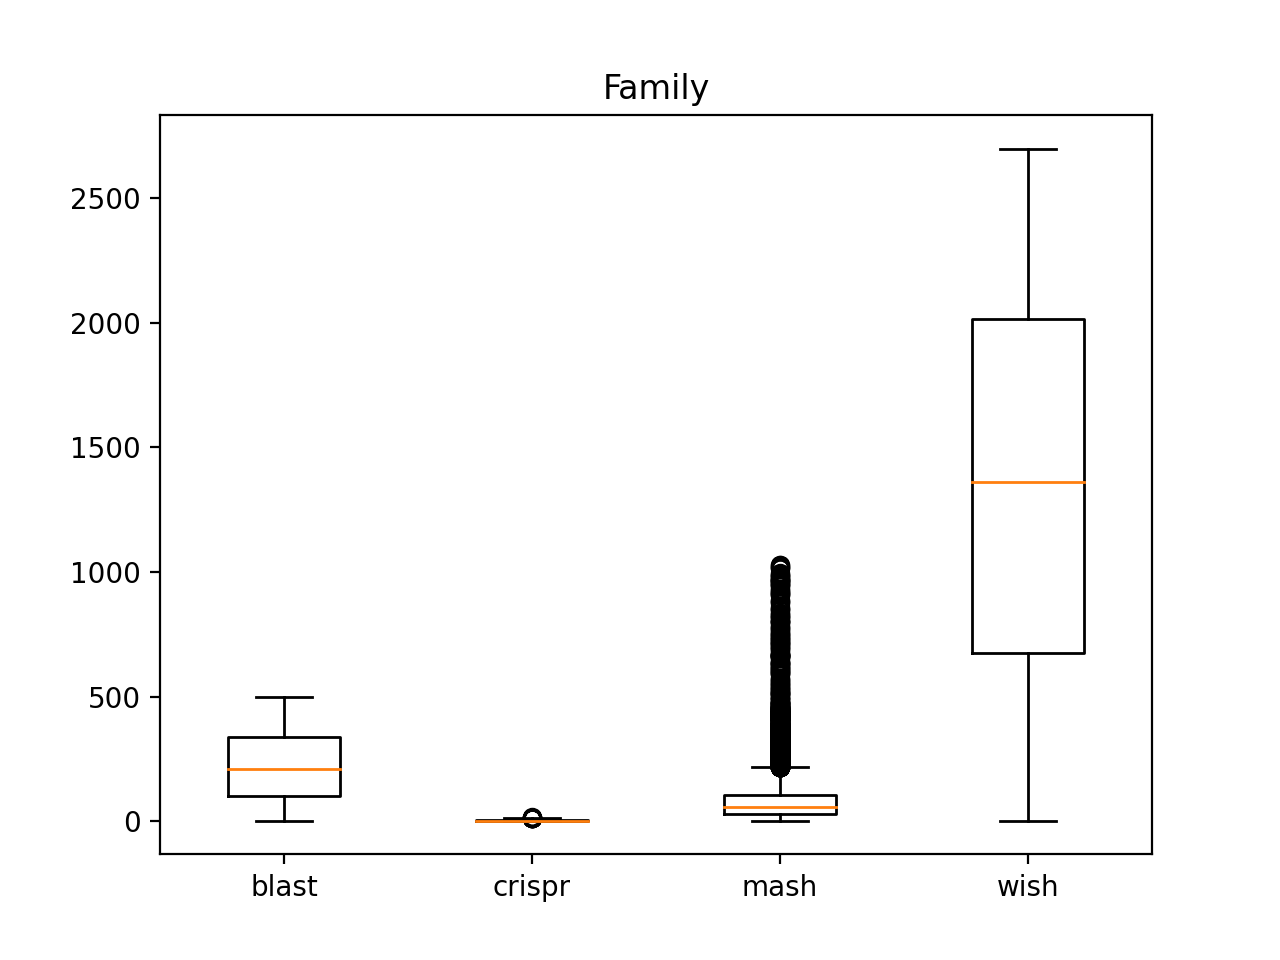
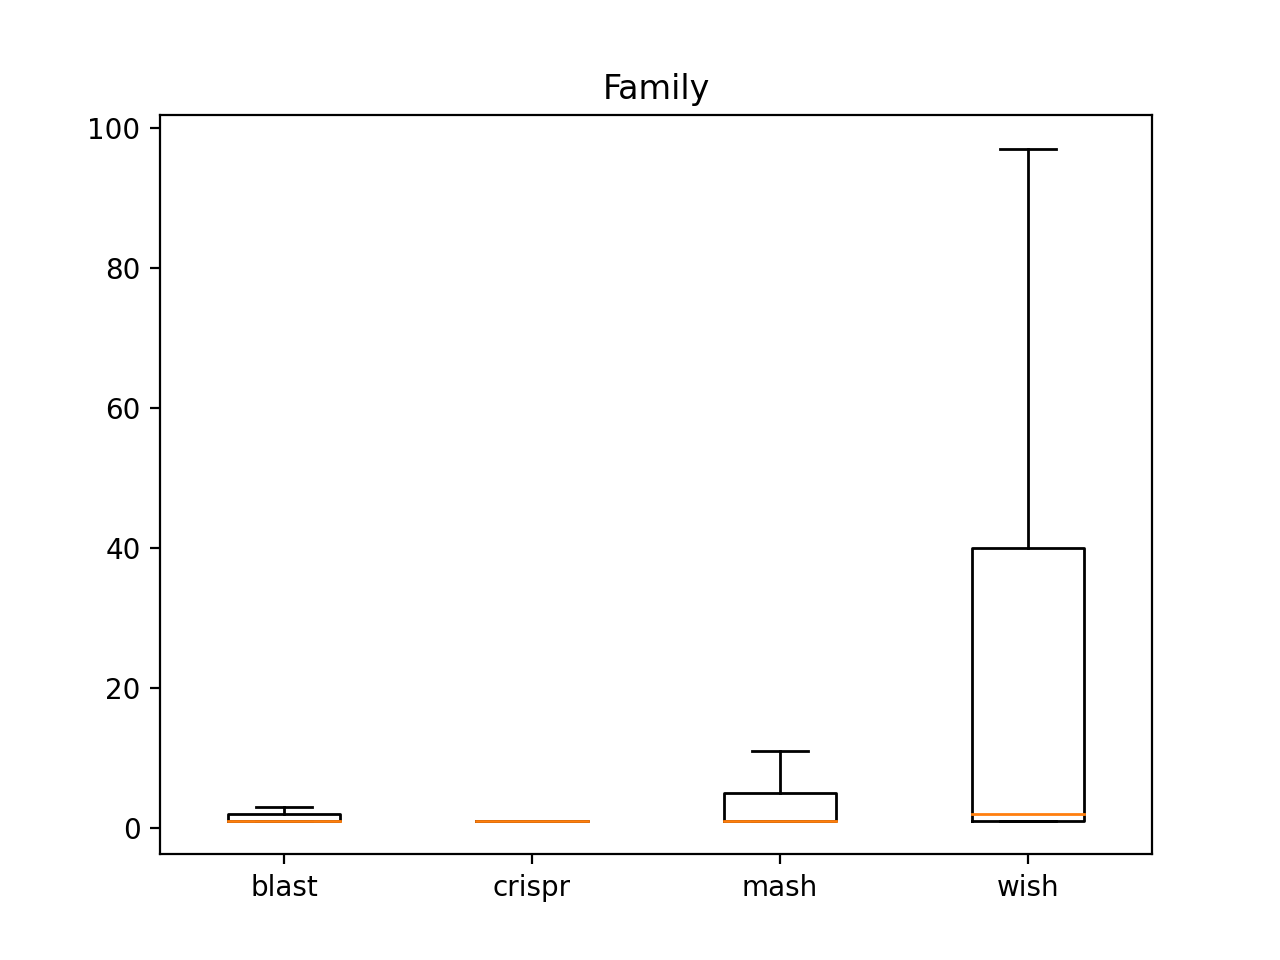
roc

diff --git a/predictions/stats_roc.py b/predictions/stats_roc.py
@@ -1,0 +1,145 @@
+import numpy as np
+import json
+from functools import reduce
+from pathlib import Path
+import pandas as pd
+#import seaborn as sns
+import matplotlib.pyplot as plt
+import itertools
+from collections import defaultdict
+from sklearn import metrics
+import matplotlib.gridspec as gridspec
+
+# def name_frames(frames):
+#     for i, _ in enumerate(frames):
+#         col_name = frames[i].name + "Score"
+#         frames[i].rename(columns={"Score": col_name}, inplace=True)
+#     return frames
+
+def get_all_max(sdf):
+    sdf_max = sdf.max().to_frame().T
+    sdf_max.dropna(axis=1, how='all', inplace=True)
+    result = pd.concat([pd.merge(sdf, sdf_max[[c]], how='inner') for c in sdf_max.columns.to_list()[2:]])
+    result.loc["#"] = ["# Std", ""] + list(result[result.columns.to_list()[2:]].std(ddof=0).round(3))
+    return result
+
+
+def main():
+    frames = []
+    # ['blast.csv', 'crispr.csv', 'mash.csv', 'wish.csv']
+    for fl in ['blast.csv', 'crispr.csv', 'mash.csv', 'wish.csv']:
+        frame = pd.read_csv(fl)
+        frame.name = Path(fl).stem
+        frames.append(frame)
+
+
+    filtered = []
+    for frame in frames:
+        df = frame.groupby('Virus', as_index=False).apply(get_all_max).reset_index(drop=True)
+        df.name = frame.name
+        filtered.append(df)
+
+    with open('true_positives.json') as fh:
+        d = json.load(fh)
+
+    with open('edwards2016/virus/virus.json') as fh:
+        d_vir = json.load(fh)
+
+    with open('edwards2016/host/host.json') as fh:
+        d_host = json.load(fh)
+
+    positives = {(v, h) for v in d.keys() for h in d[v]}
+    all_relations = {(v, h) for v in d_vir.keys() for h in d_host.keys()}
+
+    gs = gridspec.GridSpec(2, 2)
+    fig = plt.figure(figsize=(12, 18))
+
+    for i, frame in enumerate(frames):
+        decisions = []
+        values = []
+        
+        records = {(x[0], x[1]): x[2] for x in list(frame.sort_values(["Score"], ascending=False).to_records(index=False))}
+
+        for j, rel in enumerate(all_relations, 1):
+            value = records.get(rel, 0)
+            decision = 1 if rel in positives else 0
+
+            decisions.append(decision)
+            values.append(value)
+            # print(frame.name, j)
+        # print(frame.name, f"decs: {sum(decisions)}", len(decisions))
+
+        if i < 2:
+            fig.add_subplot(gs[0, i])
+        else:
+            fig.add_subplot(gs[1, i - 2])
+
+
+        fallout, recall, thresholds = metrics.roc_curve(decisions, values, drop_intermediate=False)
+        # print(fallout, recall, thresholds)
+        # print([d for d in decisions if d > 0][:10], [v for v in values if v > 0][:10])
+        plt.title(frame.name + " ROC")
+        plt.xlabel('Fallout')
+        plt.ylabel('Recall')
+        plt.plot(fallout, recall, label=f'AUC = {metrics.roc_auc_score(decisions, values) :.2f}')
+        plt.legend(loc='lower right')
+    plt.savefig('ROC_curve.png', dpi=200)
+    print("ROC Done.")
+
+    # # PR CURVE
+
+    gs = gridspec.GridSpec(2, 2)
+    fig = plt.figure(figsize=(12, 18))
+
+    for i, frame in enumerate(frames):
+        decisions = []
+        values = []
+        
+        records = {(x[0], x[1]): x[2] for x in list(frame.sort_values(["Score"], ascending=False).to_records(index=False))}
+        # positive_records = {(x[0], x[1]) for x in records if x in positives}
+
+        for j, rel in enumerate(all_relations, 1):
+            value = records.get(rel, 0)
+            decision = 1 if rel in positives else 0
+
+            decisions.append(decision)
+            values.append(value)
+
+        if i < 2:
+            fig.add_subplot(gs[0, i])
+        else:
+            fig.add_subplot(gs[1, i - 2])
+
+        precision, recall, thresholds = metrics.precision_recall_curve(decisions, values)
+        # print(precision, recall, thresholds)
+        plt.title(frame.name + " Precision-Recall")
+        plt.xlabel('Recall')
+        plt.ylabel('Precision')
+        plt.plot(recall, precision, label=f'AP = {metrics.average_precision_score(decisions, values) :.2f}')
+        plt.legend(loc='lower right')
+    
+    plt.savefig('PR_curve.png', dpi=200)
+    print("PR Done.")
+
+    # F1 SCORE
+    # print("F1's:")
+    # for i, frame in enumerate(frames):
+    #     ground_true = []
+    #     predictions = []
+        
+    #     records = {(x[0], x[1]): x[2] for x in list(frame.sort_values(["Score"], ascending=False).to_records(index=False))}
+    #     # positive_records = {(x[0], x[1]) for x in records if x in positives}
+
+    #     for j, rel in enumerate(all_relations, 1):
+    #         ground_true_val = 1 if rel in positives else 0
+    #         prediction = 1 if rel in records else 0
+
+    #         ground_true.append(ground_true_val)
+    #         predictions.append(prediction)
+    
+    #     f1 = metrics.f1_score(ground_true, predictions)
+
+    #     print(frame.name, f"{f1 :.3f}")
+
+if __name__ == '__main__':
+    main()

diff --git a/predictions/boxplot_taxonomy.py b/predictions/boxplot_taxonomy.py
@@ -18,7 +18,7 @@ def rank_frames(frames):
 def main():
     frames = []
     # ['blast.csv', 'crispr.csv', 'mash.csv', 'wish.csv']
-    for fl in ['blast.csv']:
+    for fl in ['blast.csv', 'crispr.csv', 'mash.csv', 'wish.csv']:
         frame = pd.read_csv(fl)
         frame.name = Path(fl).stem
         frames.append(frame)
@@ -31,11 +31,11 @@ def main():
         f.name = frame.name
         ranked_fixed.append(f)
 
-    # filtered = []
-    # for frame in ranked_fixed:
-    #     df = frame.groupby(['Virus'], as_index=False).apply(lambda grp: grp.loc[grp.iloc[:, -1] == grp.iloc[:, -1].min()]).reset_index(drop=True)
-    #     df.name = frame.name
-    #     filtered.append(df)
+    filtered = []
+    for frame in ranked_fixed:
+        df = frame.groupby(['Virus'], as_index=False).apply(lambda grp: grp.loc[grp.iloc[:, -1] == grp.iloc[:, -1].min()]).reset_index(drop=True)
+        df.name = frame.name
+        filtered.append(df)
 
     with open('true_positives.json') as fh:
         d = json.load(fh)
@@ -64,28 +64,28 @@ def main():
     #                 counts[frame.name].append(list(df["Host"]).index(hst) + 1)
 
     counts = defaultdict(list)
-    for frame in ranked_fixed:
+    for frame in filtered:
         for i, vir in enumerate(d.keys(), 1):
             df = frame[frame["Virus"] == vir]
 
             vir_record = d_vir[vir]
-            vir_host_tax = vir_record["host"]["lineage_ranks"][-2]
+            vir_host_tax = vir_record["host"]["lineage_names"][-1]
 
             #genuses = set([d_host[hst]["lineage_names"][-2] for hst in df["Host"]])
-            for hst in df["Host"]:
+            for hst in list(df["Host"]):
                 hst_record = d_host[hst]
-                hst_tax = hst_record["lineage_names"][-2]
-                
+                hst_tax = hst_record["lineage_names"][-1]
                 if hst_tax == vir_host_tax:
                     counts[frame.name].append(list(df["Host"]).index(hst) + 1)
+                    break
             print(frame.name, i)
 
-    print(counts)
     labels, data = [*zip(*counts.items())]
     labels, data = counts.keys(), counts.values()
     plt.boxplot(data)
+    plt.title("Species")
     plt.xticks(range(1, len(labels) + 1), labels)
-    plt.savefig('boxplot_genus.png', dpi=200)
+    plt.savefig('boxplot_species.png', dpi=200)
 
 if __name__ == '__main__':
     main()
